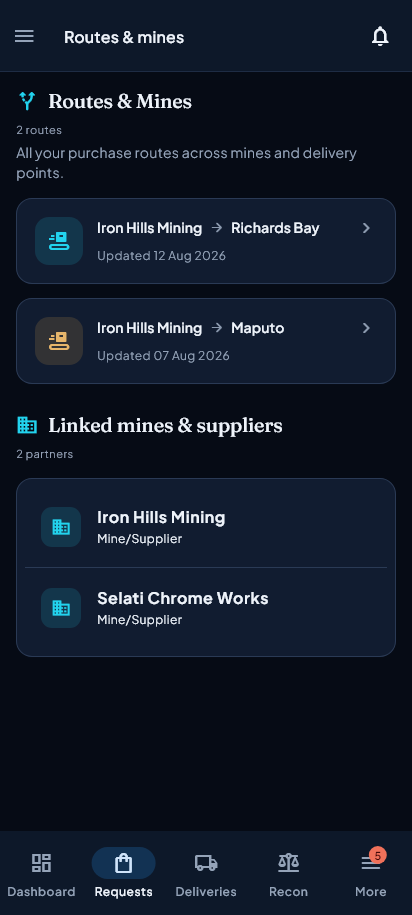
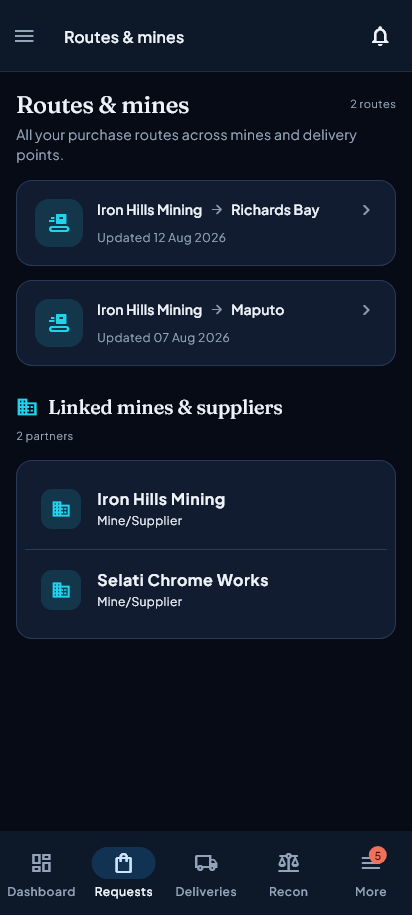
fix(buyer): Routes & mines opens with a page header, and stops colouring its routes at random
Buyer pass, reviewer findings #8 and #9, both seen in
`screen-buyer-routes-mines-desktop-dark`.

THE HEAD. The page opened with `MlSectionTitle('Routes & Mines', icon:)` and a
hand-rolled `Text` beneath it — the shape `MlPageHeader` exists to end, and the
same one the mine's Buyers page carried until `06ecf4b`. The section below it
("Linked mines & suppliers") is a real section and stays a section head, so the
page now has a hierarchy instead of two headings of equal weight.

"Routes & Mines" was also the last title-case spelling of it in the product:
the nav label, `ml_route_title.dart` and the legacy-label alias map all say
"Routes & mines". That map's KEY is the legacy tab label and is deliberately
left alone — it is the seam, not the copy, and its own comment says it should
reach empty.

THE TONE. Every route card's icon well took its tone from `_tones[i % 4]` —
accent, atMine, done, transit — cycled BY INDEX. So route 1 was cyan and route
2 amber, and in this product `atMine`'s amber means "pending at the mine"
(CLAUDE.md §5): the second route card was saying something about itself that
was not true, and the colour carried no information at all. §5.2 is one accent;
§5.5 is that a tone must mean something. The "Linked mines & suppliers" list
directly below already draws every partner in the same well — the pattern was
on the screen.

Two goldens. Both looked at: the title is now the page face with no section
icon, and both route wells are cyan.
[…]

Changed region(s): [[0.0291, 0.0918, 0.9612, 0.7344], [0.8738, 0.0918, 0.9612, 0.1224]]

diff --git a/test/features/portal/buyer_routes_mines_head_and_tone_test.dart b/test/features/portal/buyer_routes_mines_head_and_tone_test.dart
@@ -1,0 +1,133 @@
+// Routes & mines: a page header, and one tone for one kind of thing.
+//
+// Buyer pass, 2026-08-23 (reviewer findings #8 and #9, both seen in
+// `screen-buyer-routes-mines-desktop-dark`).
+//
+// 1. The page opened with `MlSectionTitle('Routes & Mines', icon:)` and a
+//    hand-rolled `Text` under it — the shape `MlPageHeader` exists to end, and
+//    the same one the mine's Buyers page carried until `06ecf4b`. "Routes &
+//    Mines" was also the last title-case spelling of it: the nav label,
+//    `ml_route_title.dart` and the legacy-label alias map all say "Routes &
+//    mines". (That map's KEY is the legacy tab label and is deliberately left
+//    alone — it is the seam, not the copy.)
+//
+// 2. Every route card's icon well took its tone from `_tones[i % 4]` —
+//    accent, atMine, done, transit, cycled BY INDEX. Route 1 was cyan and
+//    route 2 amber, and `atMine`'s amber means "pending at the mine" in this
+//    product (CLAUDE.md §5), so the second route card said something about
+//    itself that was not true and the colour carried no information at all.
+//    §5.2 is one accent; §5.5 is that a tone must mean something. The "Linked
+//    mines & suppliers" list directly below draws every partner in the same
+//    well, which is the pattern.
+
+import 'package:flutter/material.dart';
+import 'package:flutter_riverpod/flutter_riverpod.dart';
+import 'package:flutter_test/flutter_test.dart';
+import 'package:shared_preferences/shared_preferences.dart';
+import 'package:supabase_flutter/supabase_flutter.dart';
+
+import 'package:flutter_application_1/core/design/components/ml_components.dart';
+import 'package:flutter_application_1/core/theme/app_theme.dart';
+import 'package:flutter_application_1/features/auth/models/user_type.dart';
+import 'package:flutter_application_1/features/portal/screens/buyer_routes_mines_screen.dart';
+
+import '../../fixtures/portal_capture_fixtures.dart';
+import '../../fixtures/portal_tail_fixtures.dart';
+import '../../fixtures/screen_fixtures.dart';
+import '../../test_helpers/real_fonts.dart';
+import '../../test_helpers/frozen_clock.dart';
+
+void main() {
+  setUpAll(() async {
+    freezeCaptureClock();
+    await loadRealFonts();
+    SharedPreferences.setMockInitialValues({});
+    await Supabase.initialize(
+      url: 'http://localhost:54321',
+      anonKey: 'buyer-routes-mines-test',
+    );
+  });
+
+  Future<void> pump(WidgetTester tester) async {
+    tester.view.physicalSize = const Size(1600, 1600);
+    tester.view.devicePixelRatio = 1.0;
+    addTearDown(tester.view.reset);
+    await tester.pumpWidget(
+      ProviderScope(
+        overrides: [
+          ...companyScopeOverrides(
+            role: UserRole.admin,
+            orgType: OrgType.buyer,
+          ),
+          ...portalCaptureOverrides(),
+          ...portalTailOverrides(),
+        ],
+        child: MaterialApp(
+          theme: AppTheme.darkTheme,
+          home: const Scaffold(body: BuyerRoutesMinesScreen()),
+        ),
+      ),
+    );
+    await tester.pump();
+    await tester.pump(const Duration(milliseconds: 600));
+  }
+
+  testWidgets('the page opens with a page header, in sentence case', (
+    tester,
+  ) async {
+    await pump(tester);
+
+    final header = tester.widget<MlPageHeader>(find.byType(MlPageHeader));
+    expect(header.title, 'Routes & mines');
+    expect(
+      header.description,
+      'All your purchase routes across mines and delivery points.',
+      reason: 'the sentence belongs to the header that lays it out',
+    );
+    expect(
+      find.text('Routes & Mines'),
+      findsNothing,
+      reason: 'the nav, the route title and the alias map all say "mines"',
+    );
+  });
+
+  // The GREEN case: the section BELOW the page title is a real section and
+  // stays a section head, icon and all. Promoting both would flatten the
+  // hierarchy the fix exists to restore.
+  testWidgets('the partner list is still a section, not a second page title', (
+    tester,
+  ) async {
+    await pump(tester);
+
+    expect(
+      find.descendant(
+        of: find.byType(MlSectionTitle),
+        matching: find.text('Linked mines & suppliers'),
+      ),
+      findsOneWidget,
+    );
+    expect(find.byType(MlPageHeader), findsOneWidget);
+  });
+
+  testWidgets('every route card wears the same well', (tester) async {
+    await pump(tester);
+
+    final wells = tester
+        .widgetList<MlIconWell>(find.byType(MlIconWell))
+        .where((w) => w.icon == Icons.conveyor_belt)
+        .toList();
+
+    expect(
+      wells.length,
+      greaterThan(1),
+      reason: 'one card cannot show that a list cycles its colours',
+    );
+    expect(
+      wells.map((w) => w.tone).toSet(),
+      {MlTone.accent},
+      reason:
+          'the wells cycled accent → atMine → done → transit by index, so the '
+          'second route was amber: "pending at the mine", about a route',
+    );
+  });
+}

diff --git a/lib/features/portal/screens/buyer_routes_mines_screen.dart b/lib/features/portal/screens/buyer_routes_mines_screen.dart
@@ -16,13 +16,6 @@ import 'package:flutter_application_1/core/time/ml_time.dart';
 class BuyerRoutesMinesScreen extends ConsumerWidget {
   const BuyerRoutesMinesScreen({super.key});
 
-  static const _tones = [
-    MlTone.accent,
-    MlTone.atMine,
-    MlTone.done,
-    MlTone.transit,
-  ];
-
   @override
   Widget build(BuildContext context, WidgetRef ref) {
     final companyId = resolvePortalCompanyId(ref);
@@ -39,8 +32,24 @@ class BuyerRoutesMinesScreen extends ConsumerWidget {
       child: Column(
         crossAxisAlignment: CrossAxisAlignment.start,
         children: [
-          MlSectionTitle(
-            'Routes & Mines',
+          // A PAGE HEADER, and the product's own spelling.
+          //
+          // This page opened with a SECTION head carrying a section
+          // icon, and a hand-rolled `Text` under it that nothing laid
+          // out with the title — the shape `MlPageHeader` exists to end,
+          // and the same one the mine's Buyers page carried until
+          // `06ecf4b`. The section head below it ("Linked mines &
+          // suppliers") is a real section head and stays one.
+          //
+          // "Routes & Mines" was also the only title-case spelling left:
+          // the nav label, `ml_route_title.dart` and the legacy-label
+          // alias map all say "Routes & mines". (The alias map's KEY is
+          // the legacy tab label and stays as it is — it is the seam,
+          // not the copy.)
+          MlPageHeader(
+            title: 'Routes & mines',
+            description:
+                'All your purchase routes across mines and delivery points.',
             // `routes`, not `waybills`.
             //
             // This counted the snapshot's TRANSACTIONS and called them route
@@ -52,14 +61,7 @@ class BuyerRoutesMinesScreen extends ConsumerWidget {
             meta: routesAsync.valueOrNull == null
                 ? null
                 : mlCount(routesAsync.value!.routes.length, 'route'),
-            icon: Icons.alt_route_rounded,
-            margin: const EdgeInsets.only(bottom: 4),
-          ),
-          Text(
-            'All your purchase routes across mines and delivery points.',
-            style: Theme.of(context).textTheme.bodyMedium?.copyWith(
-                  color: Theme.of(context).colorScheme.onSurfaceVariant,
-                ),
+            padding: EdgeInsets.zero,
           ),
           const SizedBox(height: 16),
           routesAsync.when(
@@ -95,9 +97,23 @@ class BuyerRoutesMinesScreen extends ConsumerWidget {
                           child: Row(
                             crossAxisAlignment: CrossAxisAlignment.start,
                             children: [
-                              MlIconWell(
+                              // ONE TONE, because every card here is
+                              // the same kind of thing.
+                              //
+                              // The well used to cycle a four-tone
+                              // list BY INDEX — route 1 cyan, route 2
+                              // amber, route 3 green, route 4 blue —
+                              // so the colour carried no meaning at
+                              // all, and `atMine`'s amber said
+                              // "pending at the mine" about a route
+                              // that was nothing of the kind
+                              // (§5.2 one accent, §5.5 a tone must mean
+                              // something). The "Linked mines &
+                              // suppliers" list directly below this one
+                              // already draws every partner in the same
+                              // well.
+                              const MlIconWell(
                                 icon: Icons.conveyor_belt,
-                                tone: _tones[i % _tones.length],
                                 size: 48,
                                 radius: 14,
                               ),
